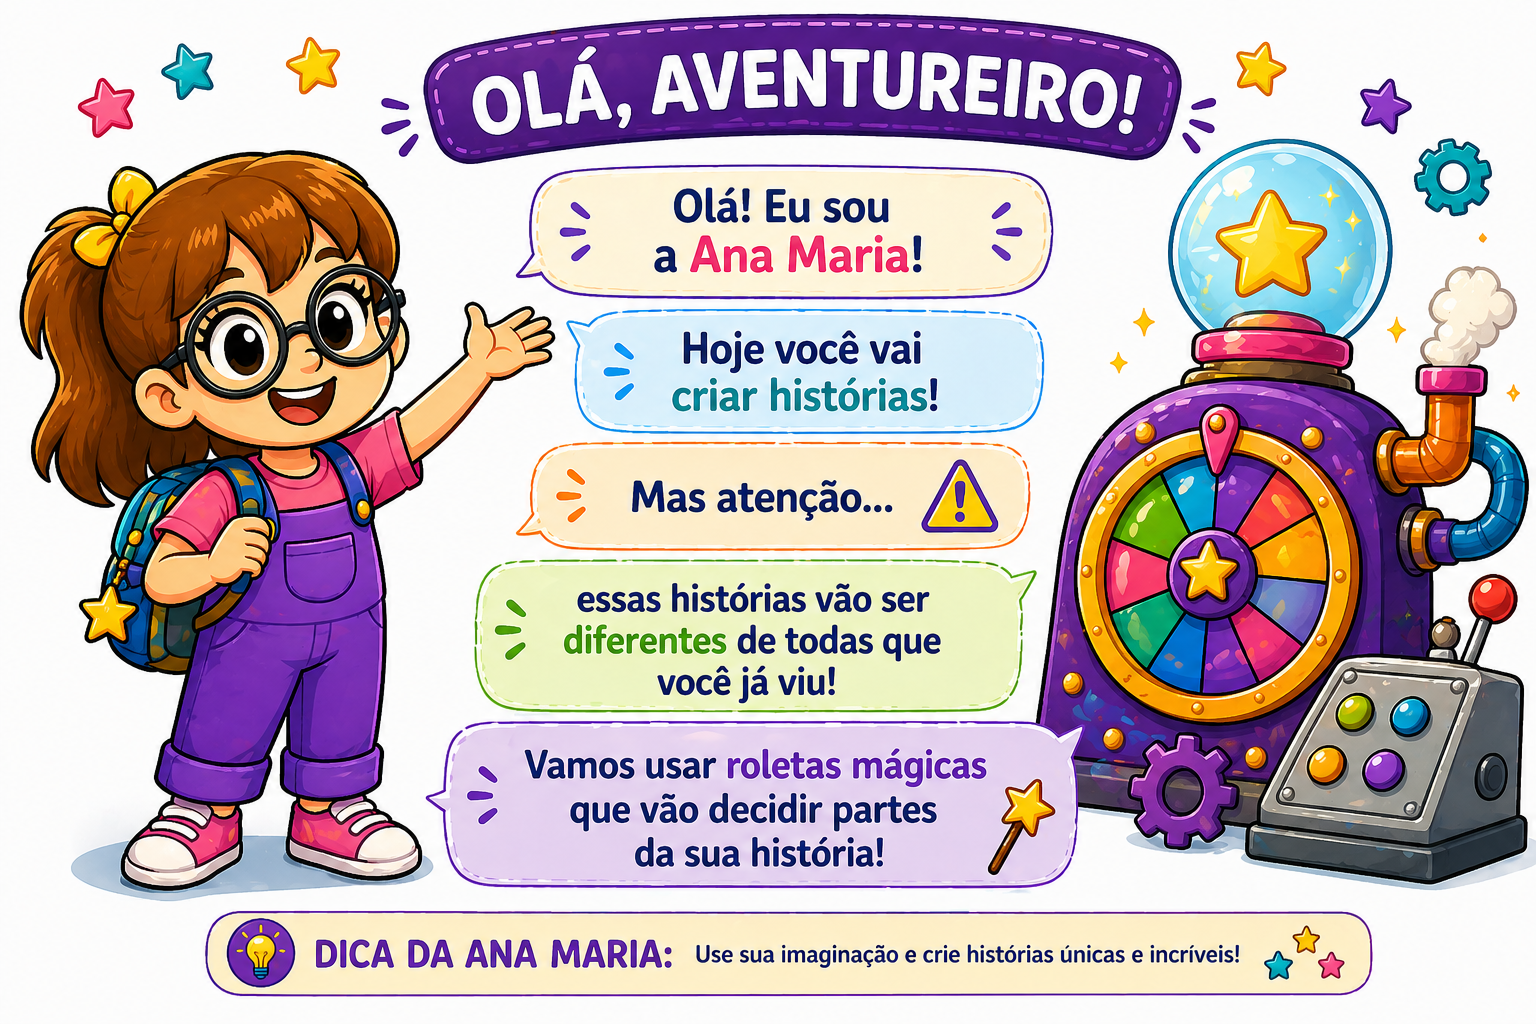
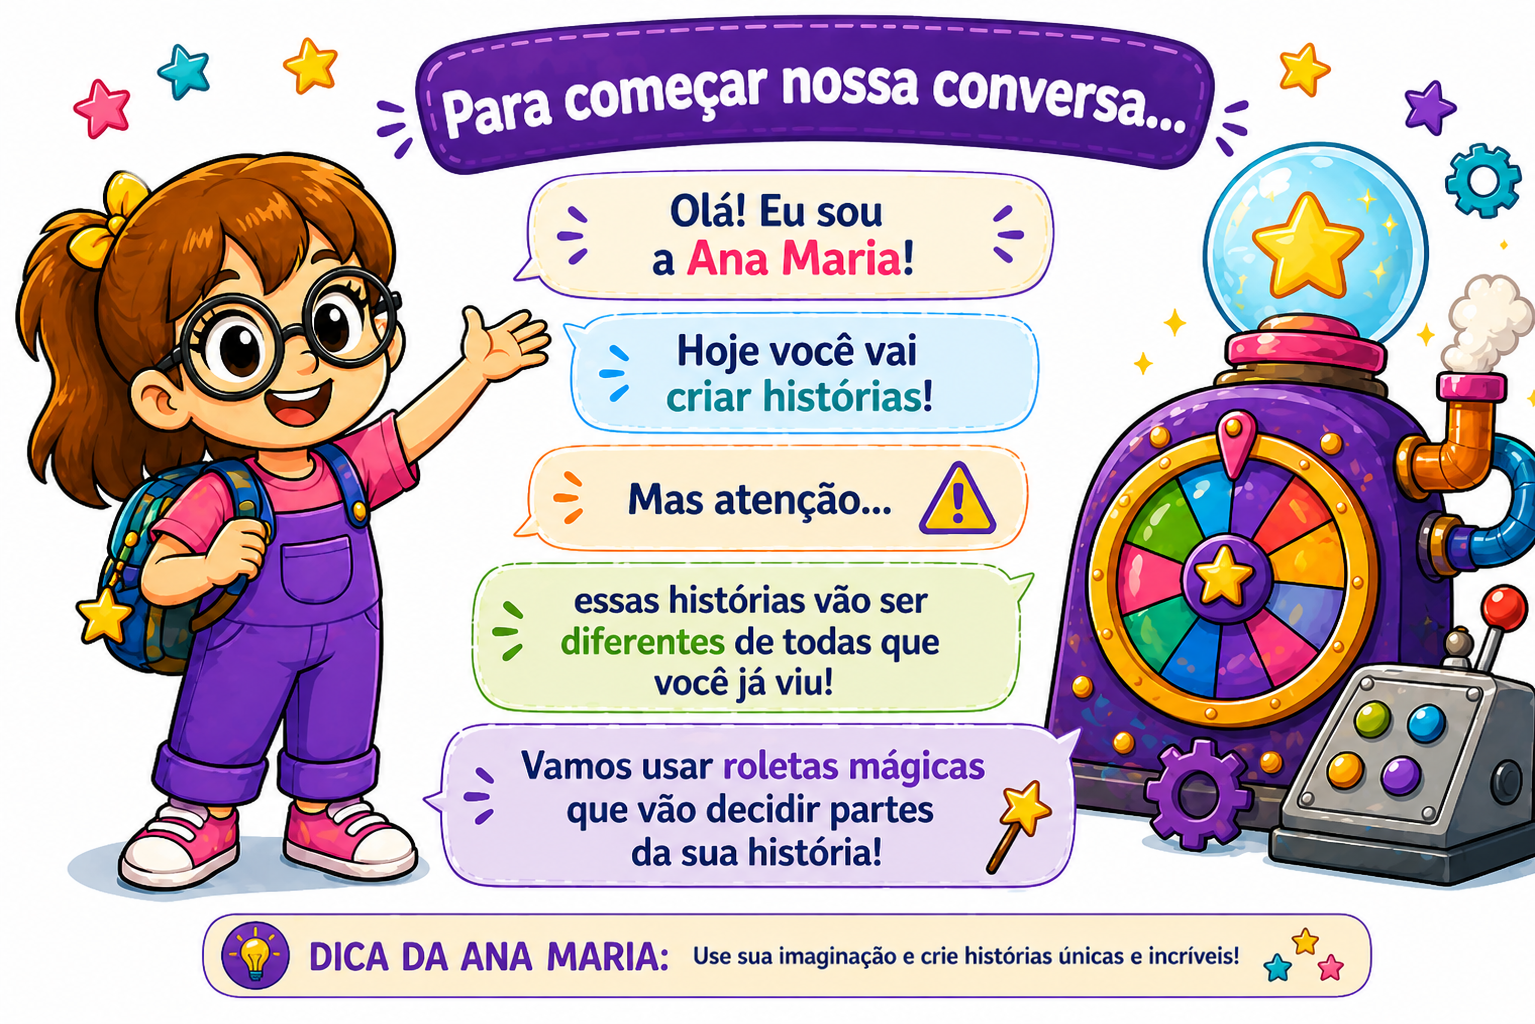
Changes

diff --git a/.lovable/plan.md b/.lovable/plan.md
@@ -1,0 +1,14 @@
+## Substituir imagem `tela2.png`
+
+Trocar o asset existente pela nova versão enviada, mantendo o mesmo nome e caminho para que nenhum código precise ser alterado.
+
+### Ação
+- Copiar `user-uploads://tela2.png` → `src/assets/telas/tela2.png` (sobrescrevendo o arquivo atual).
+
+### O que NÃO muda
+- Nenhum arquivo `.tsx`, `.ts` ou `.css` é alterado.
+- O import `import tela2 from "@/assets/telas/tela2.png"` em `src/pages/Index.tsx` continua funcionando.
+- A tela de apresentação (`AssetScreen` com `image={tela2}`) passa a exibir automaticamente a nova arte.
+
+### Após aplicar
+- Recomendo um refresh com cache limpo (Ctrl+F5 / Cmd+Shift+R) no preview para garantir que a nova imagem apareça.
